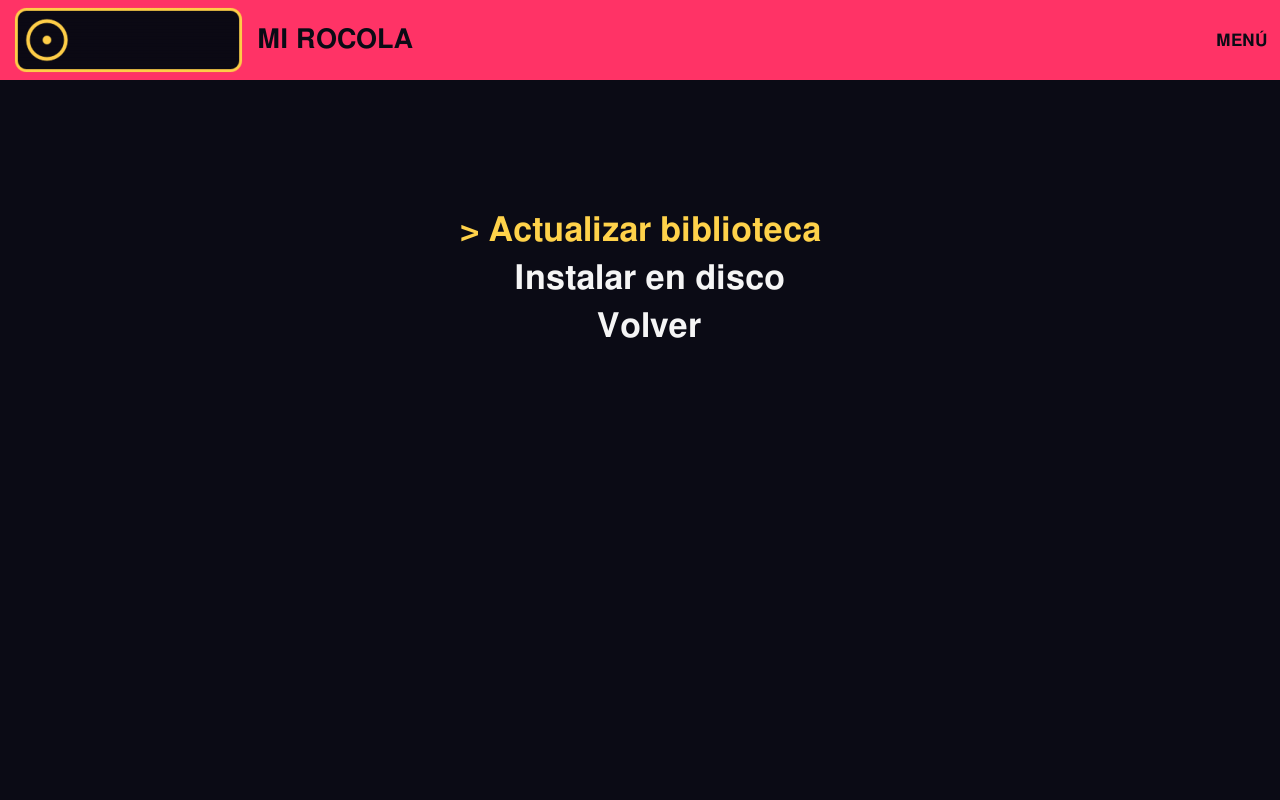
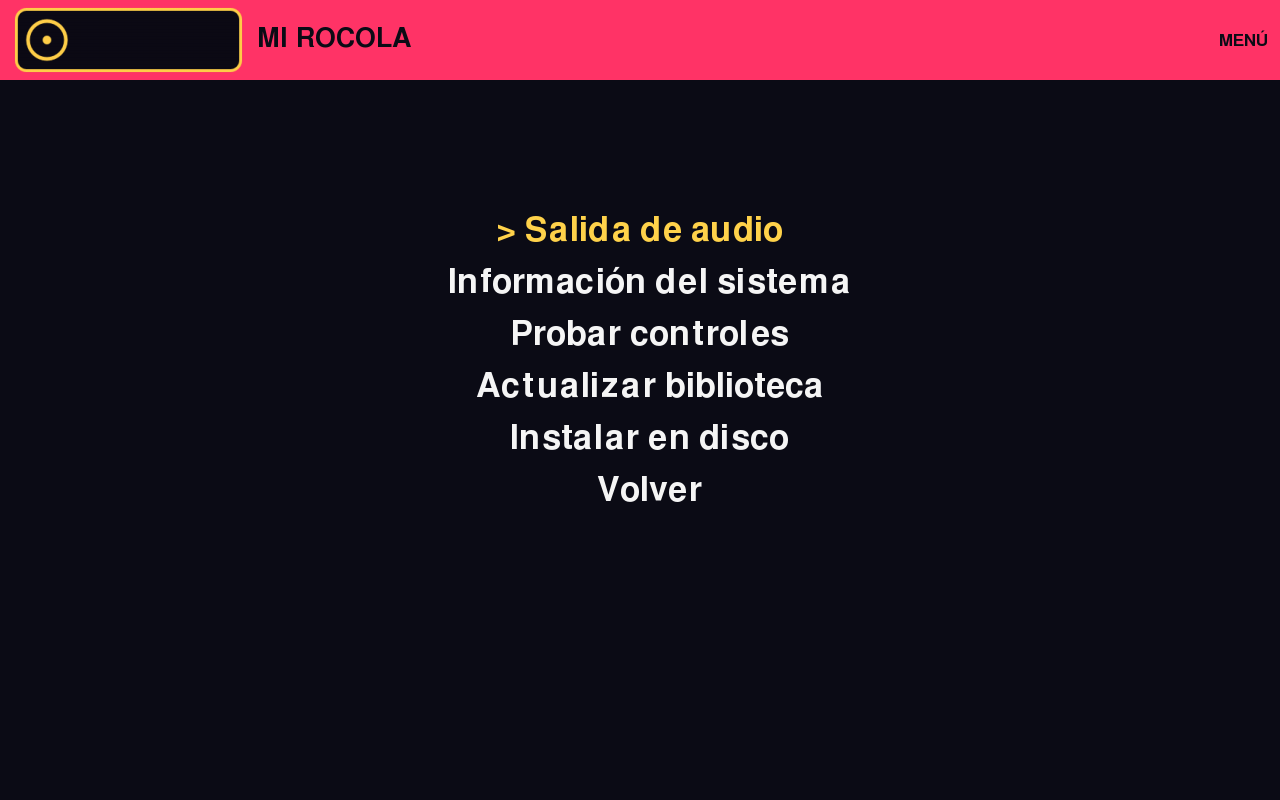
docs: current menu screenshot, and one of the controls test screen

diff --git a/docs/06-arcade-controls.md b/docs/06-arcade-controls.md
@@ -68,7 +68,7 @@ así que un mapping de SDL_GameControllerDB no cambia nada. Para un encoder con 
 que ajustar `[buttons]`. Para ver qué índice manda cada botón: menú → **Probar controles**. Cada
 tecla o botón aparece con el nombre o el índice que va en `[keys]`/`[buttons]` y la acción que le
 toca hoy. Se sale con Atrás dos veces seguidas o a los 15 s sin tocar nada, así un encoder mal
-mapeado no deja a nadie adentro.
+mapeado no deja a nadie adentro. Captura: [screenshots/ui-inputtest.png](screenshots/ui-inputtest.png).
 
 ## Acceso al instalador
 
